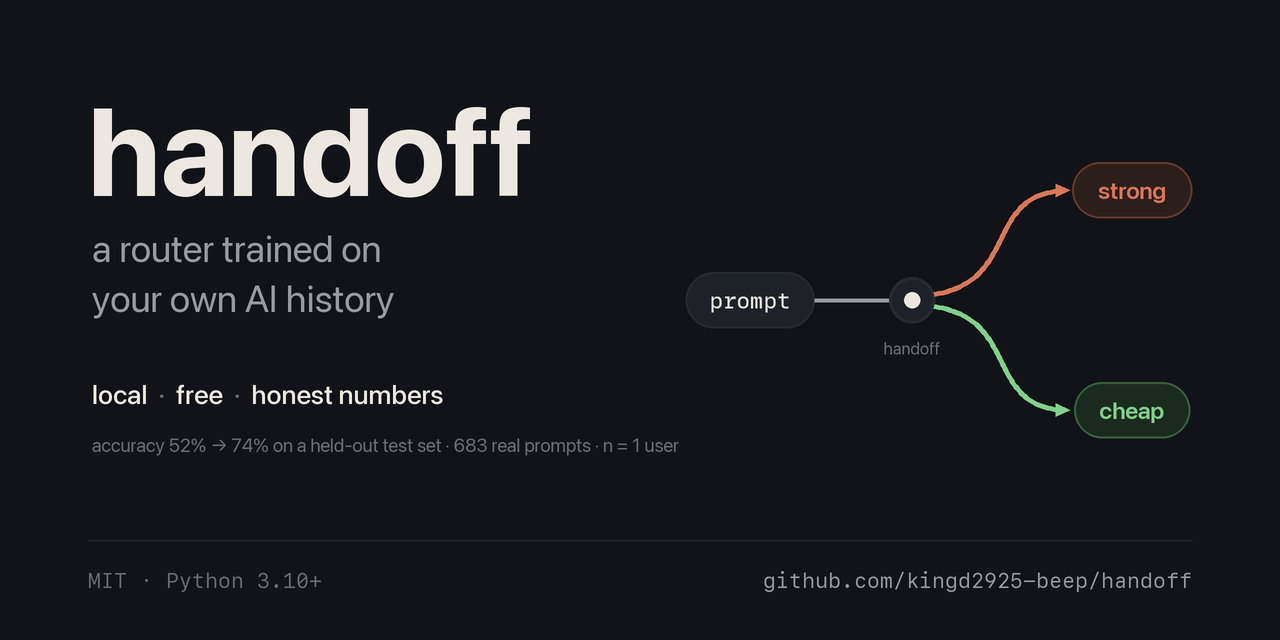
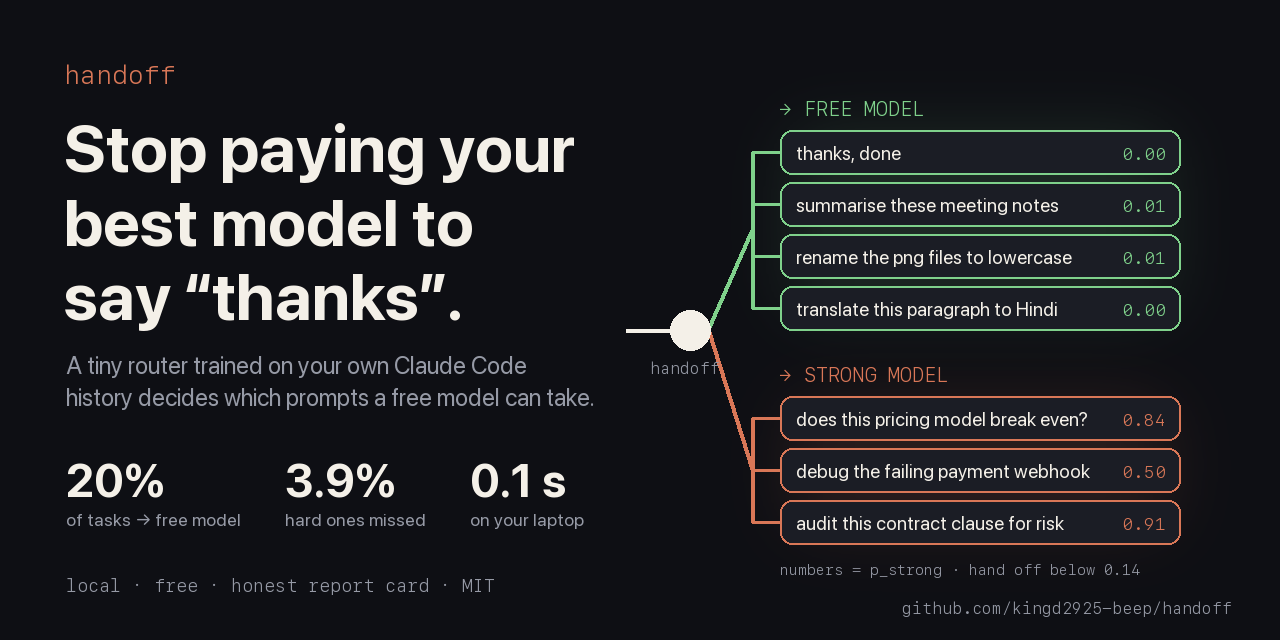
docs: new social preview — hook headline + prompts visibly sorted into free vs strong model

diff --git a/tools/make_social.py b/tools/make_social.py
@@ -1,0 +1,167 @@
+"""Social preview cards for handoff (1280×640). Two designs:
+
+  sorter  — hook headline + your prompts visibly splitting into "free model" and "strong model" lanes
+  baton   — Charm-style: giant name, one bold object (a relay baton being handed over), one benefit line
+
+Run: python tools/make_social.py [--only sorter|baton] [--out docs/]
+Numbers come from ~/.handoff/model/report.json when present (falls back to the published run).
+"""
+import argparse
+import json
+from pathlib import Path
+
+from PIL import Image, ImageDraw, ImageFilter, ImageFont
+
+W, H = 1280, 640
+BG = (14, 15, 20)
+INK = (244, 240, 232)
+DIM = (150, 154, 166)
+STRONG = (217, 119, 87)
+CHEAP = (127, 209, 139)
+PANEL = (27, 29, 37)
+FONTS = Path("/System/Library/Fonts")
+REPORT = Path.home() / ".handoff" / "model" / "report.json"
+PUBLISHED = {"trained": 0.74, "zero": 0.52, "to_cheap": 0.20, "leak": 0.039}
+
+CHEAP_PROMPTS = [("thanks, done", 0.00), ("summarise these meeting notes", 0.01),
+                 ("rename the png files to lowercase", 0.01), ("translate this paragraph to Hindi", 0.00)]
+STRONG_PROMPTS = [("does this pricing model break even?", 0.84), ("debug the failing payment webhook", 0.50),
+                  ("audit this contract clause for risk", 0.91)]
+
+
+def font(name: str, size: int, index: int = 0) -> ImageFont.FreeTypeFont:
+    for candidate in (name, "SFNS.ttf"):
+        try:
+            return ImageFont.truetype(str(FONTS / candidate), size, index=index)
+        except OSError:
+            continue
+    return ImageFont.load_default()
+
+
+def sans(size, bold=False):
+    f = font("SFNS.ttf", size)
+    try:
+        f.set_variation_by_name("Bold" if bold else "Regular")
+    except (OSError, ValueError):
+        pass
+    return f
+
+
+def mono(size):
+    return font("SFNSMono.ttf", size)
+
+
+def numbers():
+    try:
+        r = json.loads(REPORT.read_text())
+        return {"trained": r["test_trained_at_0.5"]["accuracy"], "zero": r["test_zero_shot_at_0.5"]["accuracy"],
+                "to_cheap": r["test_gate"]["to_cheap"], "leak": r["test_gate"]["hard_leak"]}
+    except (OSError, KeyError, ValueError):
+        return PUBLISHED
+
+
+def glow(img, box, color, radius=40, alpha=90):
+    layer = Image.new("RGBA", img.size, (0, 0, 0, 0))
+    ImageDraw.Draw(layer).rounded_rectangle(box, 24, fill=color + (alpha,))
+    img.alpha_composite(layer.filter(ImageFilter.GaussianBlur(radius)))
+
+
+def chip(d, xy, text, p, color, w=390):
+    x, y = xy
+    d.rounded_rectangle([x, y, x + w, y + 44], 12, fill=PANEL, outline=color + (160,), width=2)
+    d.text((x + 16, y + 11), text, font=sans(19), fill=INK)
+    tag = f"{p:.2f}"
+    tw = d.textlength(tag, font=mono(17))
+    d.text((x + w - tw - 14, y + 13), tag, font=mono(17), fill=color)
+
+
+def sorter(out: Path):
+    n = numbers()
+    img = Image.new("RGBA", (W, H), BG + (255,))
+    glow(img, [770, 110, 1190, 330], CHEAP, alpha=36)
+    glow(img, [770, 380, 1190, 550], STRONG, alpha=36)
+    d = ImageDraw.Draw(img)
+
+    d.text((64, 58), "handoff", font=mono(26), fill=STRONG)
+    d.text((64, 108), "Stop paying your", font=sans(66, True), fill=INK)
+    d.text((64, 182), "best model to", font=sans(66, True), fill=INK)
+    d.text((64, 256), "say “thanks”.", font=sans(66, True), fill=INK)
+    d.text((66, 350), "A tiny router trained on your own Claude Code", font=sans(24), fill=DIM)
+    d.text((66, 382), "history decides which prompts a free model can take.", font=sans(24), fill=DIM)
+
+    stats = [(f"{n['to_cheap']:.0%}", "of tasks → free model"), (f"{n['leak']:.1%}", "hard ones missed"),
+             ("0.1 s", "on your laptop")]
+    x = 66
+    for big, small in stats:
+        d.text((x, 452), big, font=sans(46, True), fill=INK)
+        d.text((x, 508), small, font=sans(18), fill=DIM)
+        x += max(d.textlength(big, font=sans(46, True)), d.textlength(small, font=sans(18))) + 44
+    d.text((66, 574), "local · free · honest report card · MIT", font=mono(18), fill=DIM)
+
+    # the split: prompts arrive → handoff node → a bracket feeding each lane
+    node, trunk_x = (690, 330), 752
+    lanes = {"cheap": (130, 4, CHEAP, "→ FREE MODEL", CHEAP_PROMPTS), "strong": (396, 3, STRONG, "→ STRONG MODEL", STRONG_PROMPTS)}
+    d.line([(626, 330), (node[0] - 20, 330)], fill=INK, width=4)
+    for (top, count, color, title, prompts) in lanes.values():
+        mid = top + 22 + (count - 1) * 26
+        d.line([(node[0] + 18, node[1]), (trunk_x, mid)], fill=color, width=4)
+        d.line([(trunk_x, top + 22), (trunk_x, top + 22 + (count - 1) * 52)], fill=color, width=4)
+        d.text((780, top - 34), title, font=mono(20), fill=color)
+        for i, (text, p) in enumerate(prompts):
+            y = top + i * 52
+            d.line([(trunk_x, y + 22), (780, y + 22)], fill=color, width=3)
+            chip(d, (780, y), text, p, color, w=400)
+    d.ellipse([node[0] - 20, node[1] - 20, node[0] + 20, node[1] + 20], fill=INK)
+    d.text((node[0] - 40, node[1] + 28), "handoff", font=mono(16), fill=DIM)
+    d.text((780, 560), "numbers = p_strong · hand off below 0.14", font=mono(15), fill=DIM)
+    url = "github.com/kingd2925-beep/handoff"
+    d.text((W - 48 - d.textlength(url, font=mono(16)), 598), url, font=mono(16), fill=DIM)
+    img.convert("RGB").save(out / "social-preview-sorter.png")
+
+
+def baton(out: Path):
+    n = numbers()
+    img = Image.new("RGBA", (W, H), (23, 20, 18, 255))
+    glow(img, [640, 90, 1220, 560], STRONG, radius=90, alpha=70)
+    d = ImageDraw.Draw(img)
+    d.text((70, 96), "handoff", font=sans(150, True), fill=INK)
+    d.text((76, 290), "Hands the easy prompts to the free model.", font=sans(30), fill=INK)
+    d.text((76, 332), "Keeps the hard ones for the smart one.", font=sans(30), fill=DIM)
+    d.text((76, 420), f"trained on your own AI history · {n['to_cheap']:.0%} handed off · {n['leak']:.1%} missed",
+           font=mono(19), fill=STRONG)
+    d.text((76, 560), "local · free · MIT", font=mono(18), fill=DIM)
+
+    # a relay baton mid-handoff: striped cylinder at an angle, two "hands" as rounded blocks
+    baton_img = Image.new("RGBA", (520, 180), (0, 0, 0, 0))
+    b = ImageDraw.Draw(baton_img)
+    b.rounded_rectangle([20, 60, 500, 120], 30, fill=STRONG)
+    for x in range(60, 480, 70):
+        b.rectangle([x, 60, x + 26, 120], fill=(245, 170, 140))
+    b.rounded_rectangle([20, 60, 500, 120], 30, outline=(120, 60, 40), width=4)
+    b.ellipse([470, 60, 530, 120], fill=(240, 150, 118), outline=(120, 60, 40), width=4)
+    rotated = baton_img.rotate(18, expand=True, resample=Image.BICUBIC)
+    img.alpha_composite(rotated, (700, 190))
+    d = ImageDraw.Draw(img)
+    for (x, y, color, label) in ((720, 360, CHEAP, "free model"), (1080, 200, INK, "you")):
+        d.rounded_rectangle([x, y, x + 120, y + 70], 26, fill=color)
+        d.text((x + 10, y + 82), label, font=mono(18), fill=DIM)
+    url = "github.com/kingd2925-beep/handoff"
+    d.text((W - 48 - d.textlength(url, font=mono(16)), 598), url, font=mono(16), fill=DIM)
+    img.convert("RGB").save(out / "social-preview-baton.png")
+
+
+def main():
+    ap = argparse.ArgumentParser()
+    ap.add_argument("--only", choices=["sorter", "baton"])
+    ap.add_argument("--out", default=str(Path(__file__).resolve().parents[1] / "docs"))
+    args = ap.parse_args()
+    out = Path(args.out)
+    out.mkdir(parents=True, exist_ok=True)
+    for name, fn in (("sorter", sorter), ("baton", baton)):
+        if args.only in (None, name):
+            fn(out)
+            print(f"✓ {out / ('social-preview-' + name + '.png')}  (docs/social-preview.png = the sorter card)")
+
+
+if __name__ == "__main__":
+    main()
